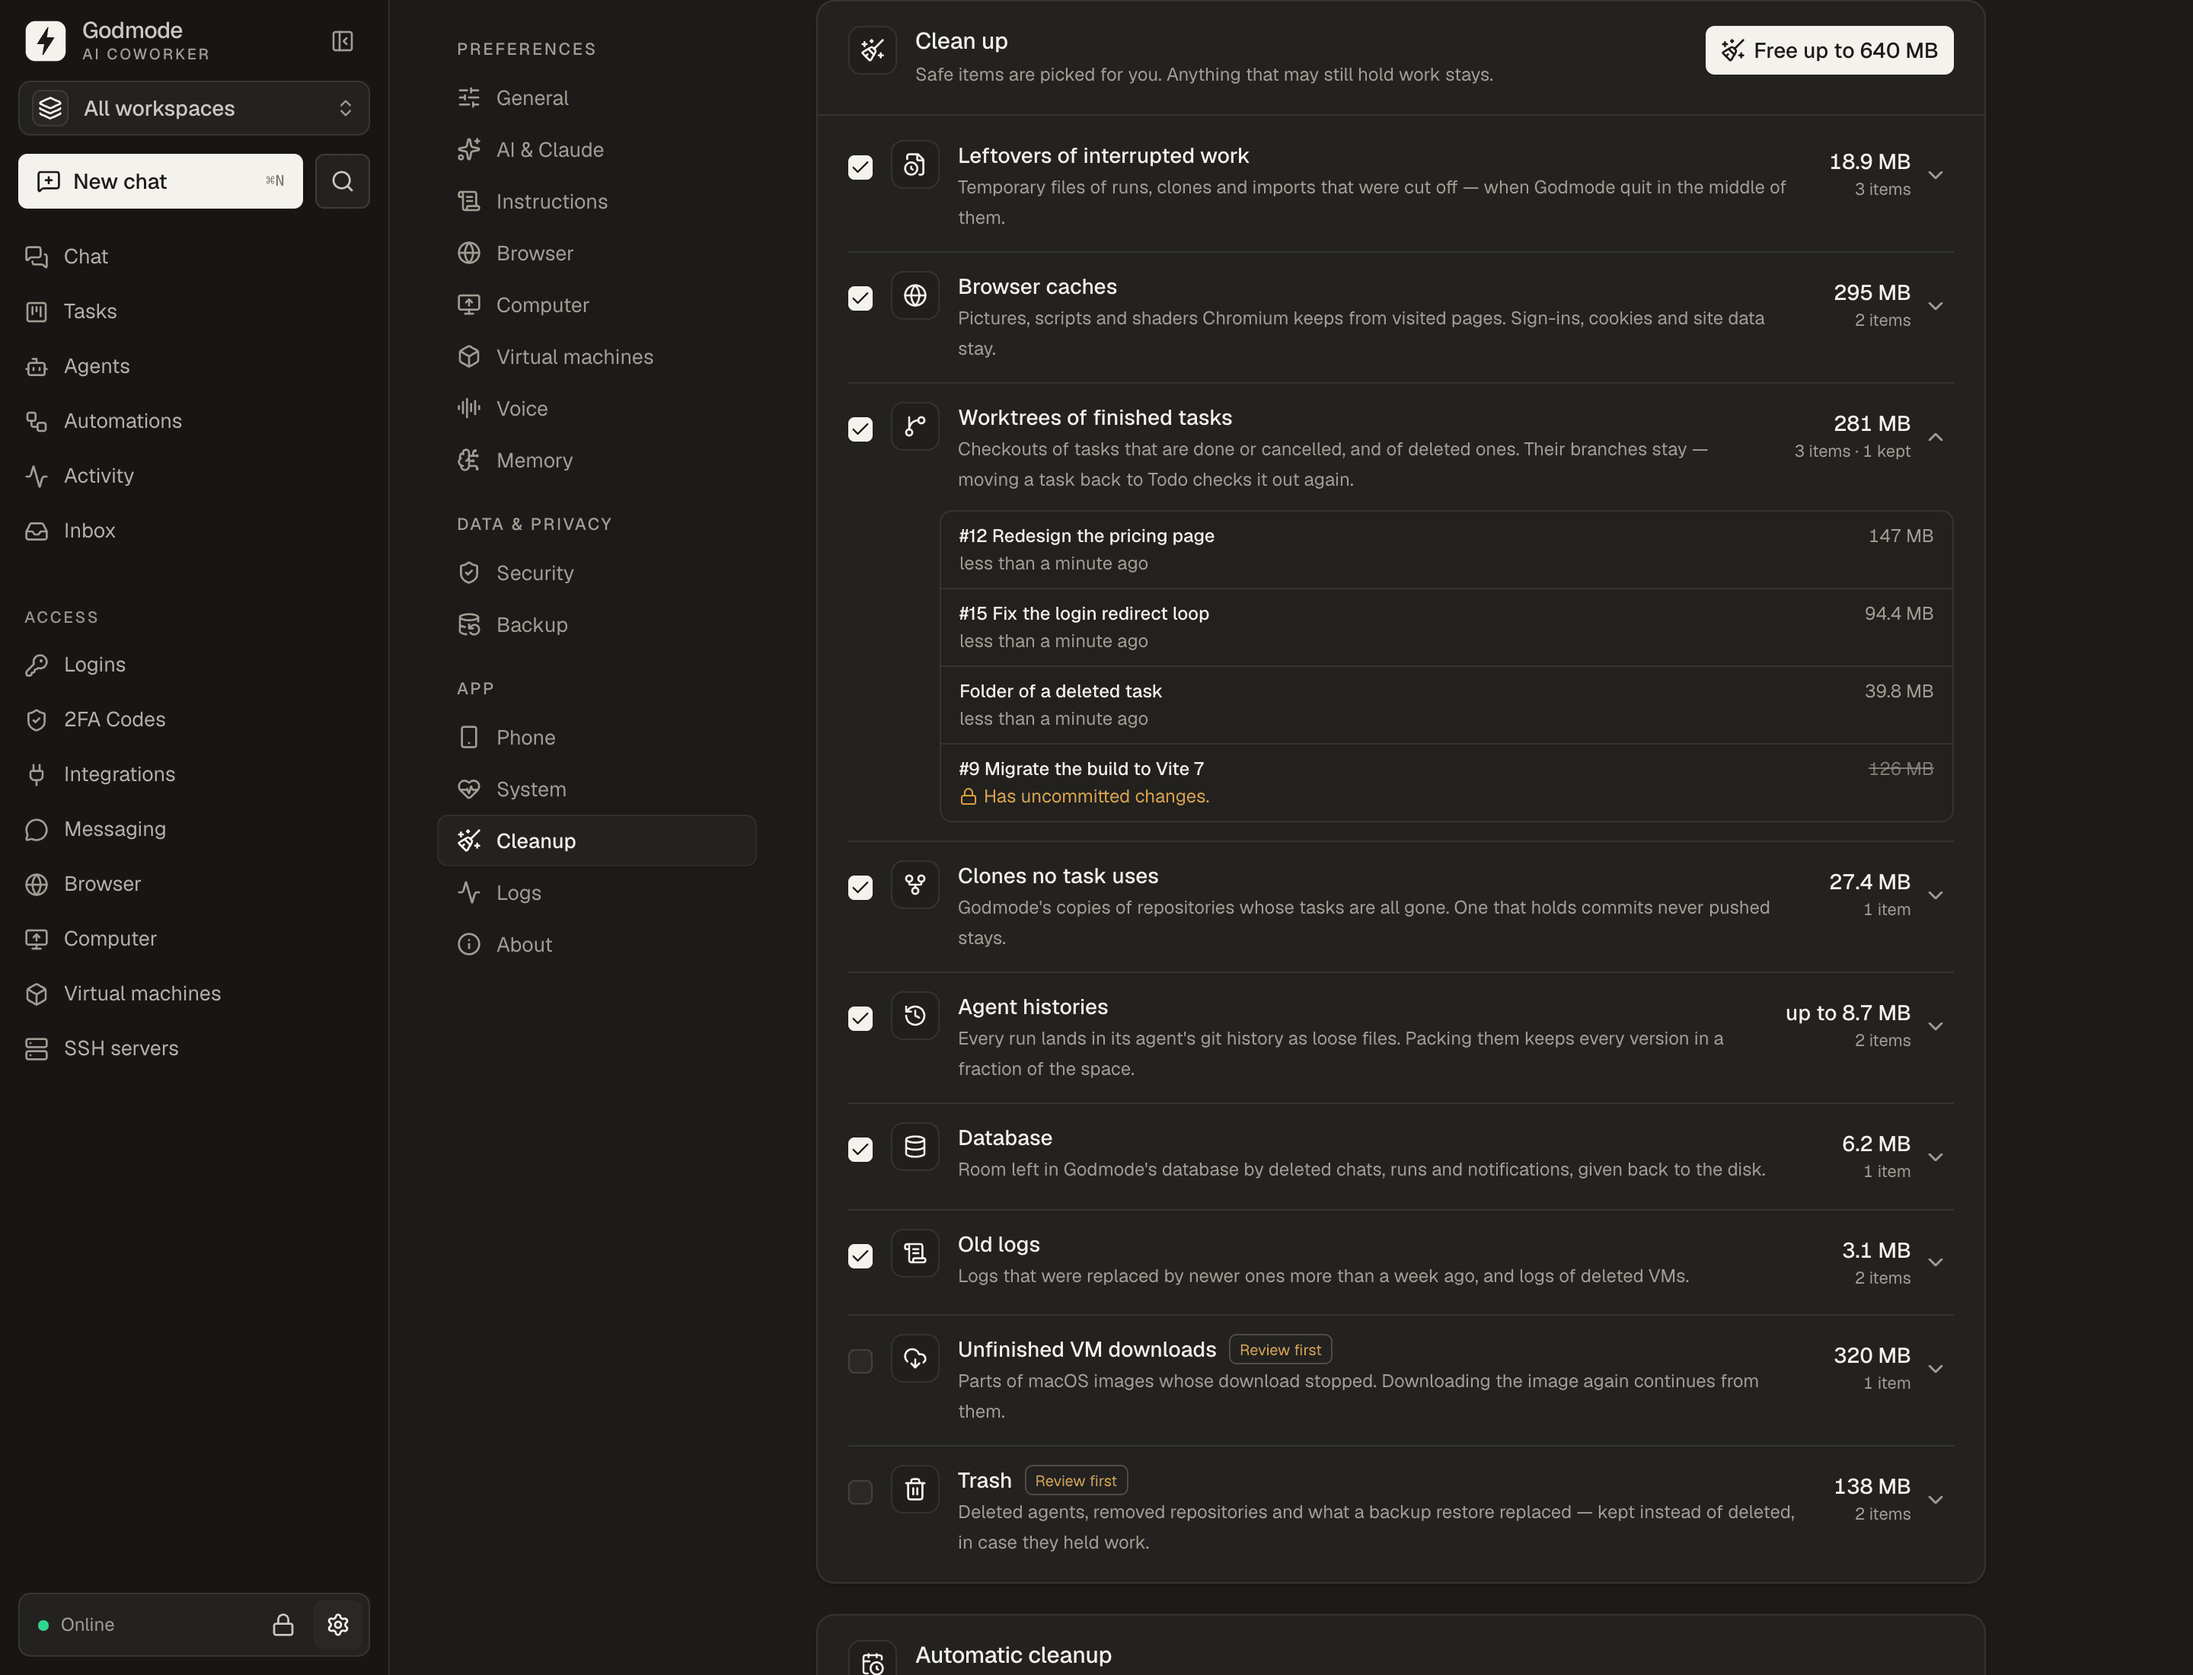
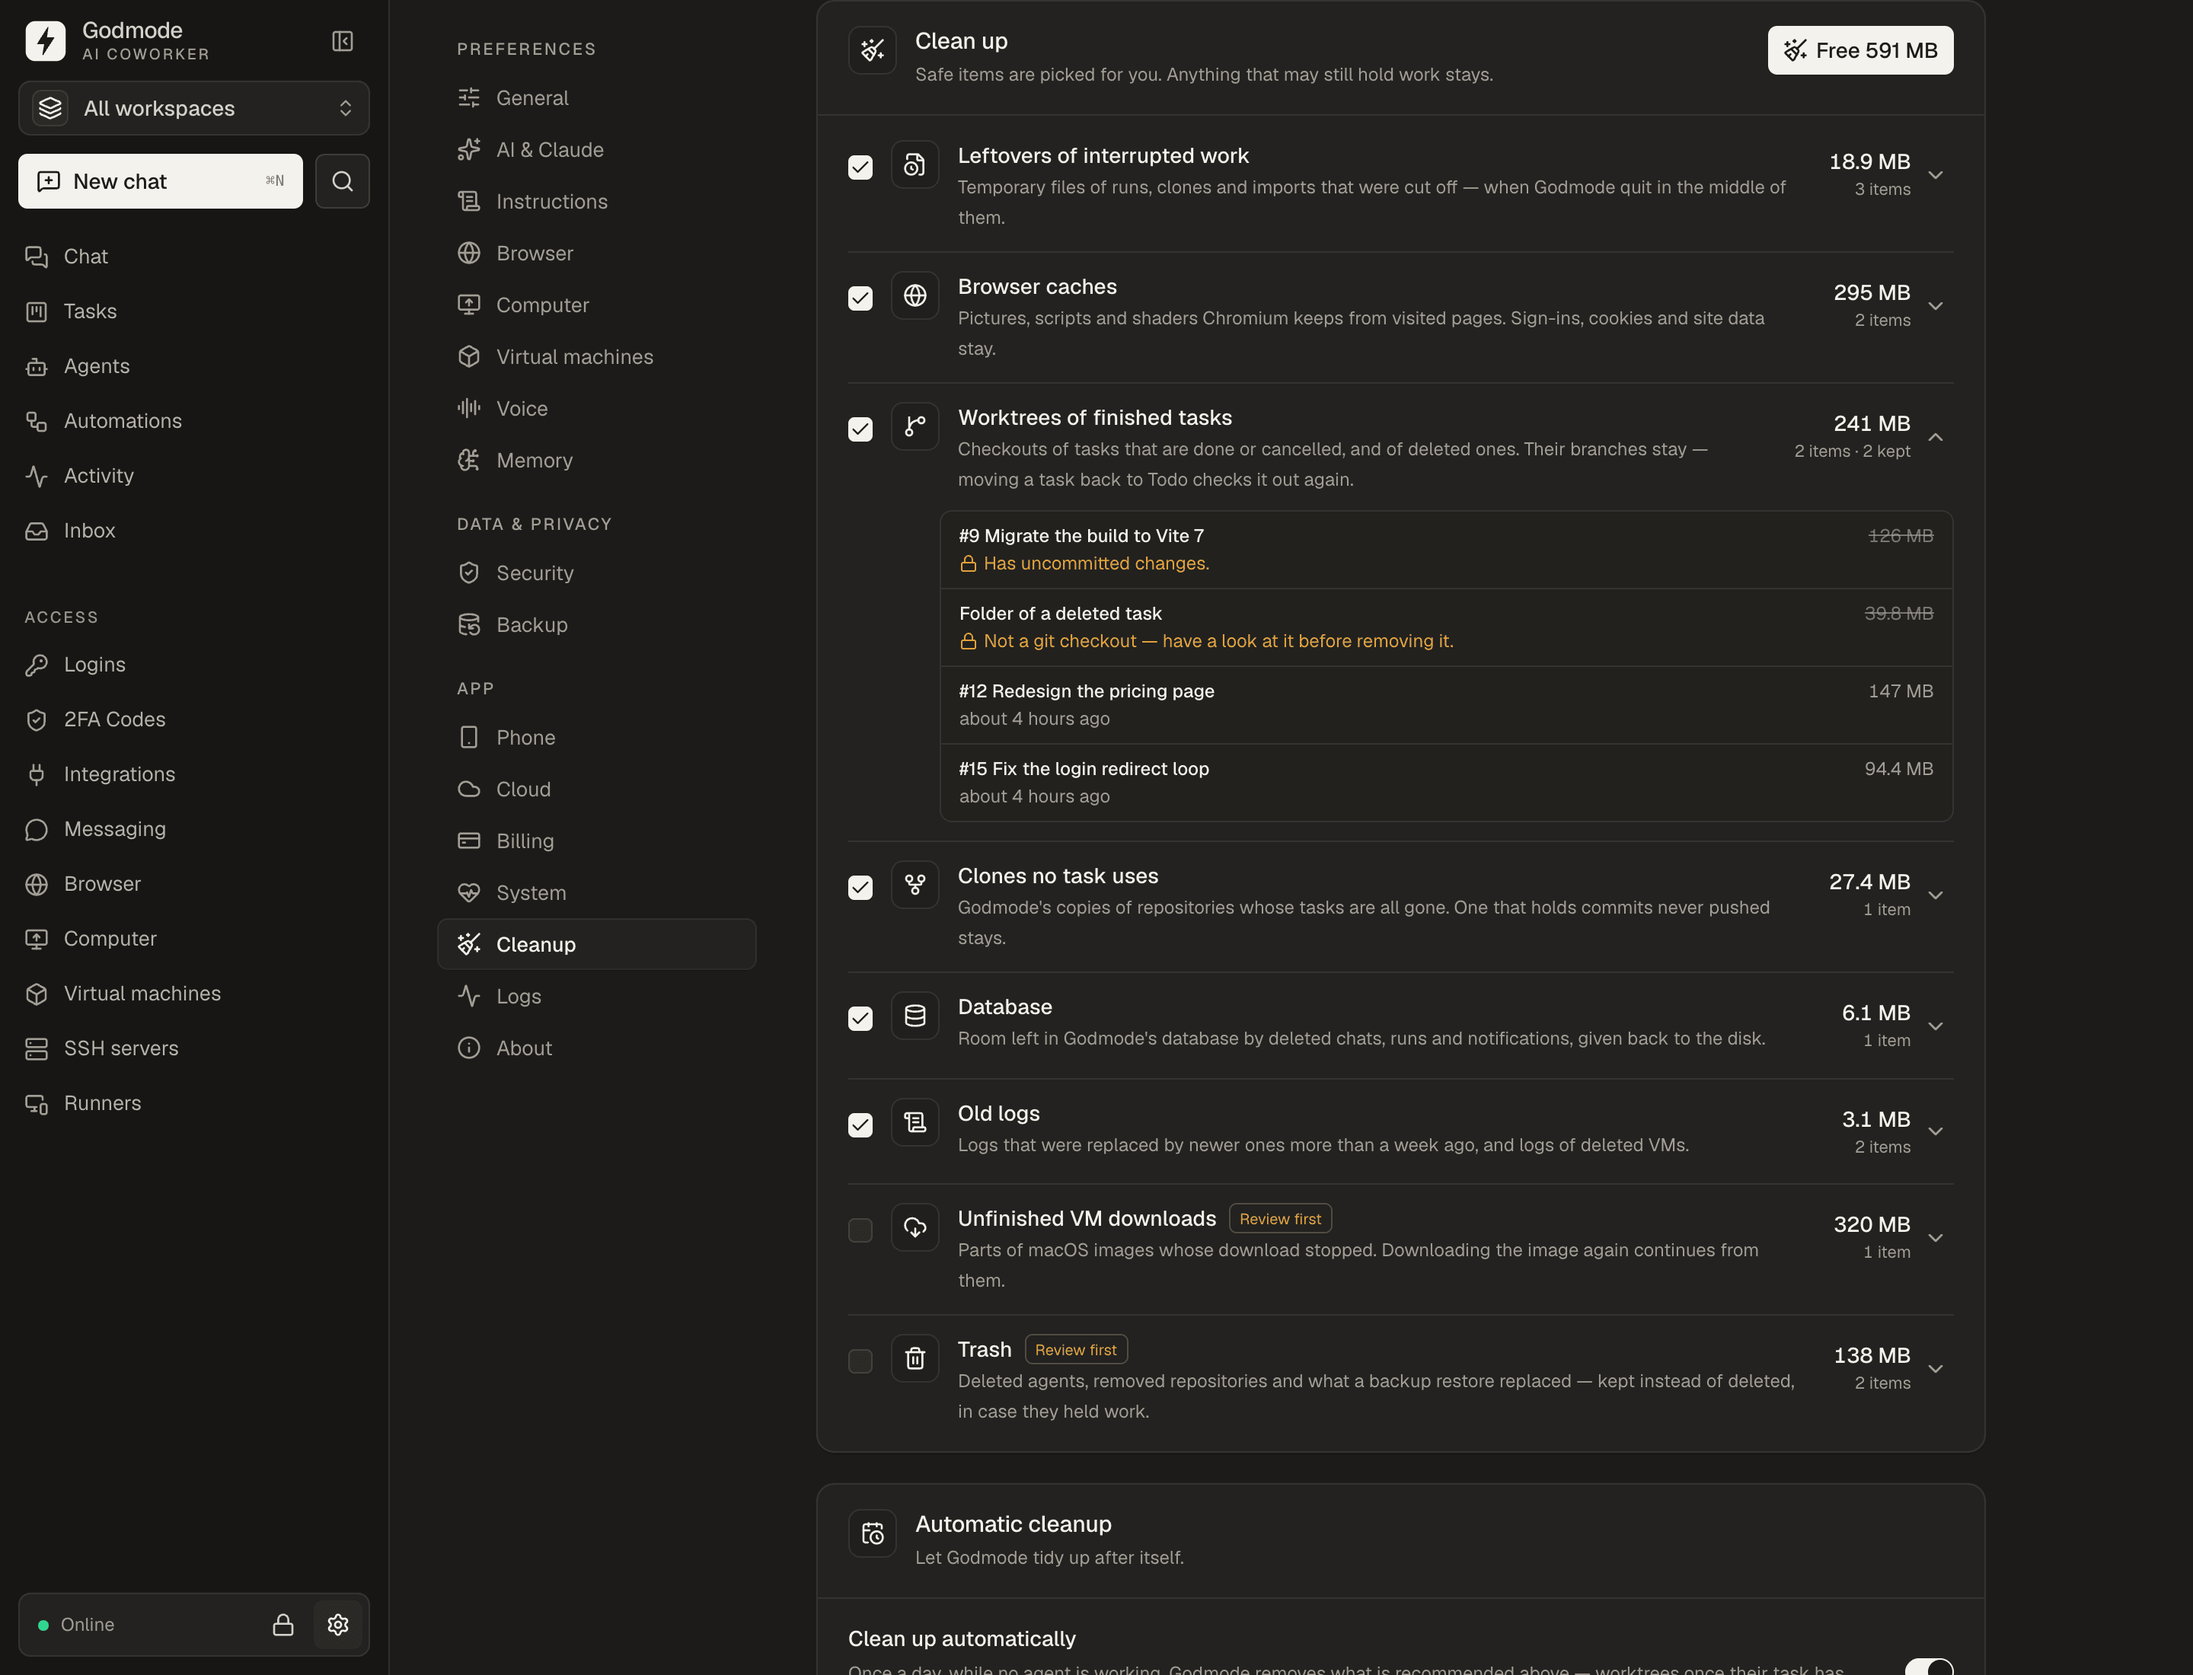
Keep cleaning on the computer: Godmode Cloud may read the cleanup report, not run it
Also refreshes the Cleanup screenshots.

diff --git a/packages/core/src/cloud/scope.ts b/packages/core/src/cloud/scope.ts
@@ -66,6 +66,8 @@ const RULES: [methods: string, path: string, rule: Rule][] = [
   ["POST", "/api/doctor/permissions/fix", refused(COMPUTER_ONLY)],
   ["POST", "/api/doctor/fix", refused(COMPUTER_ONLY)],
   ["POST", "/api/doctor/updates", refused(COMPUTER_ONLY)],
+  ["GET", "/api/cleanup", A],
+  ["POST", "/api/cleanup", refused(COMPUTER_ONLY)],
 
   ["GET", "/api/vault/status", A],
   ["POST", "/api/vault/lock", A],
